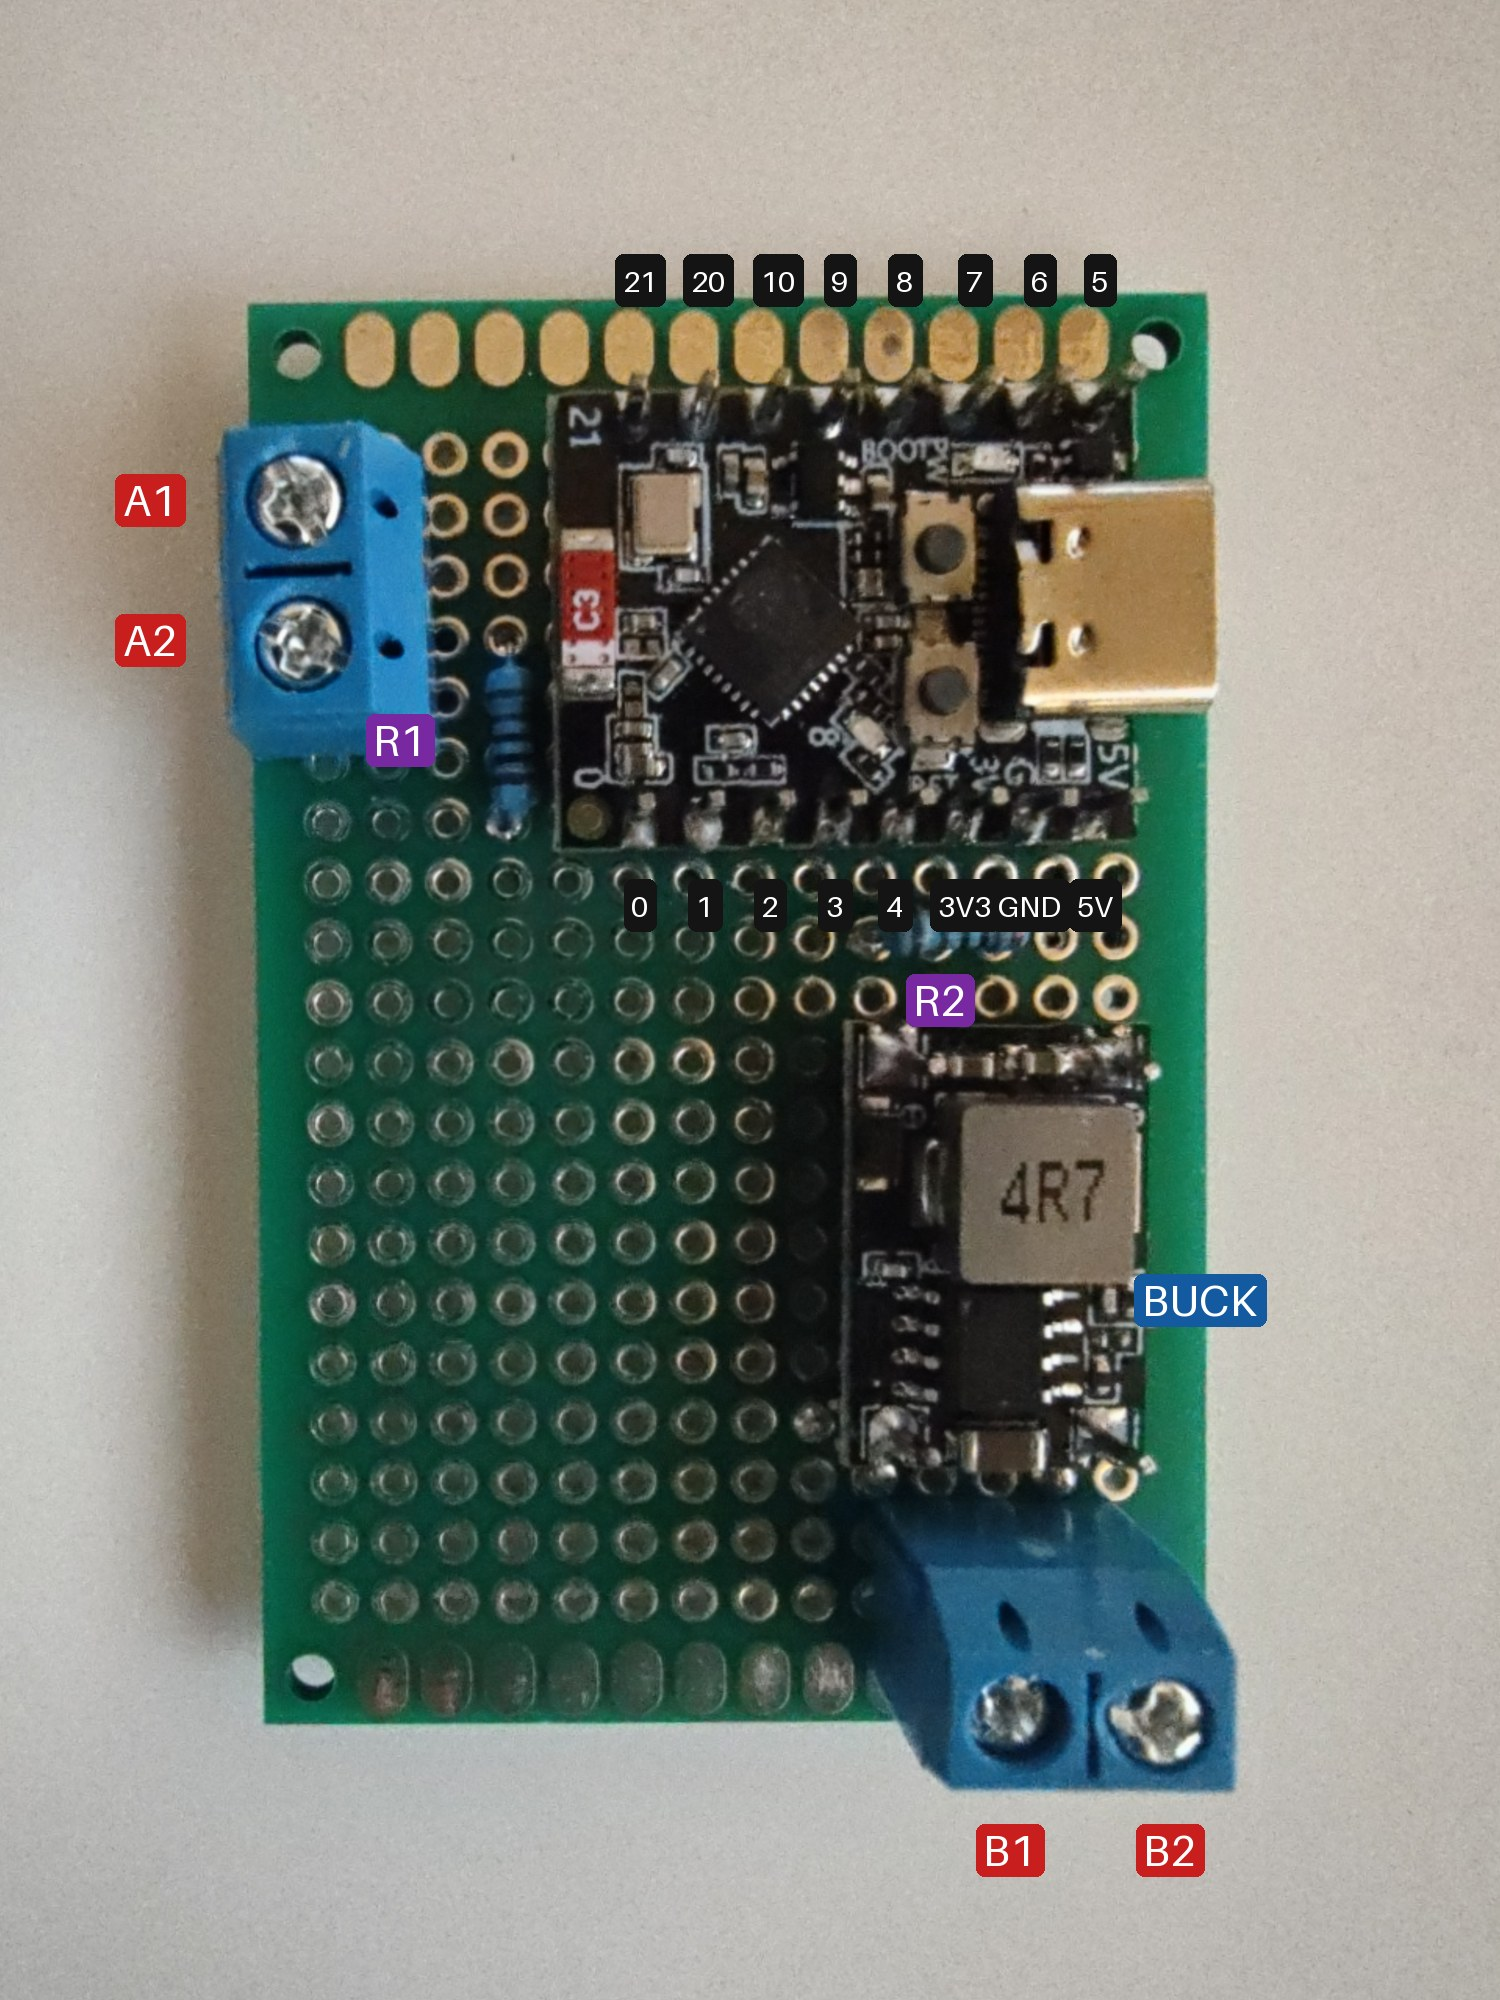
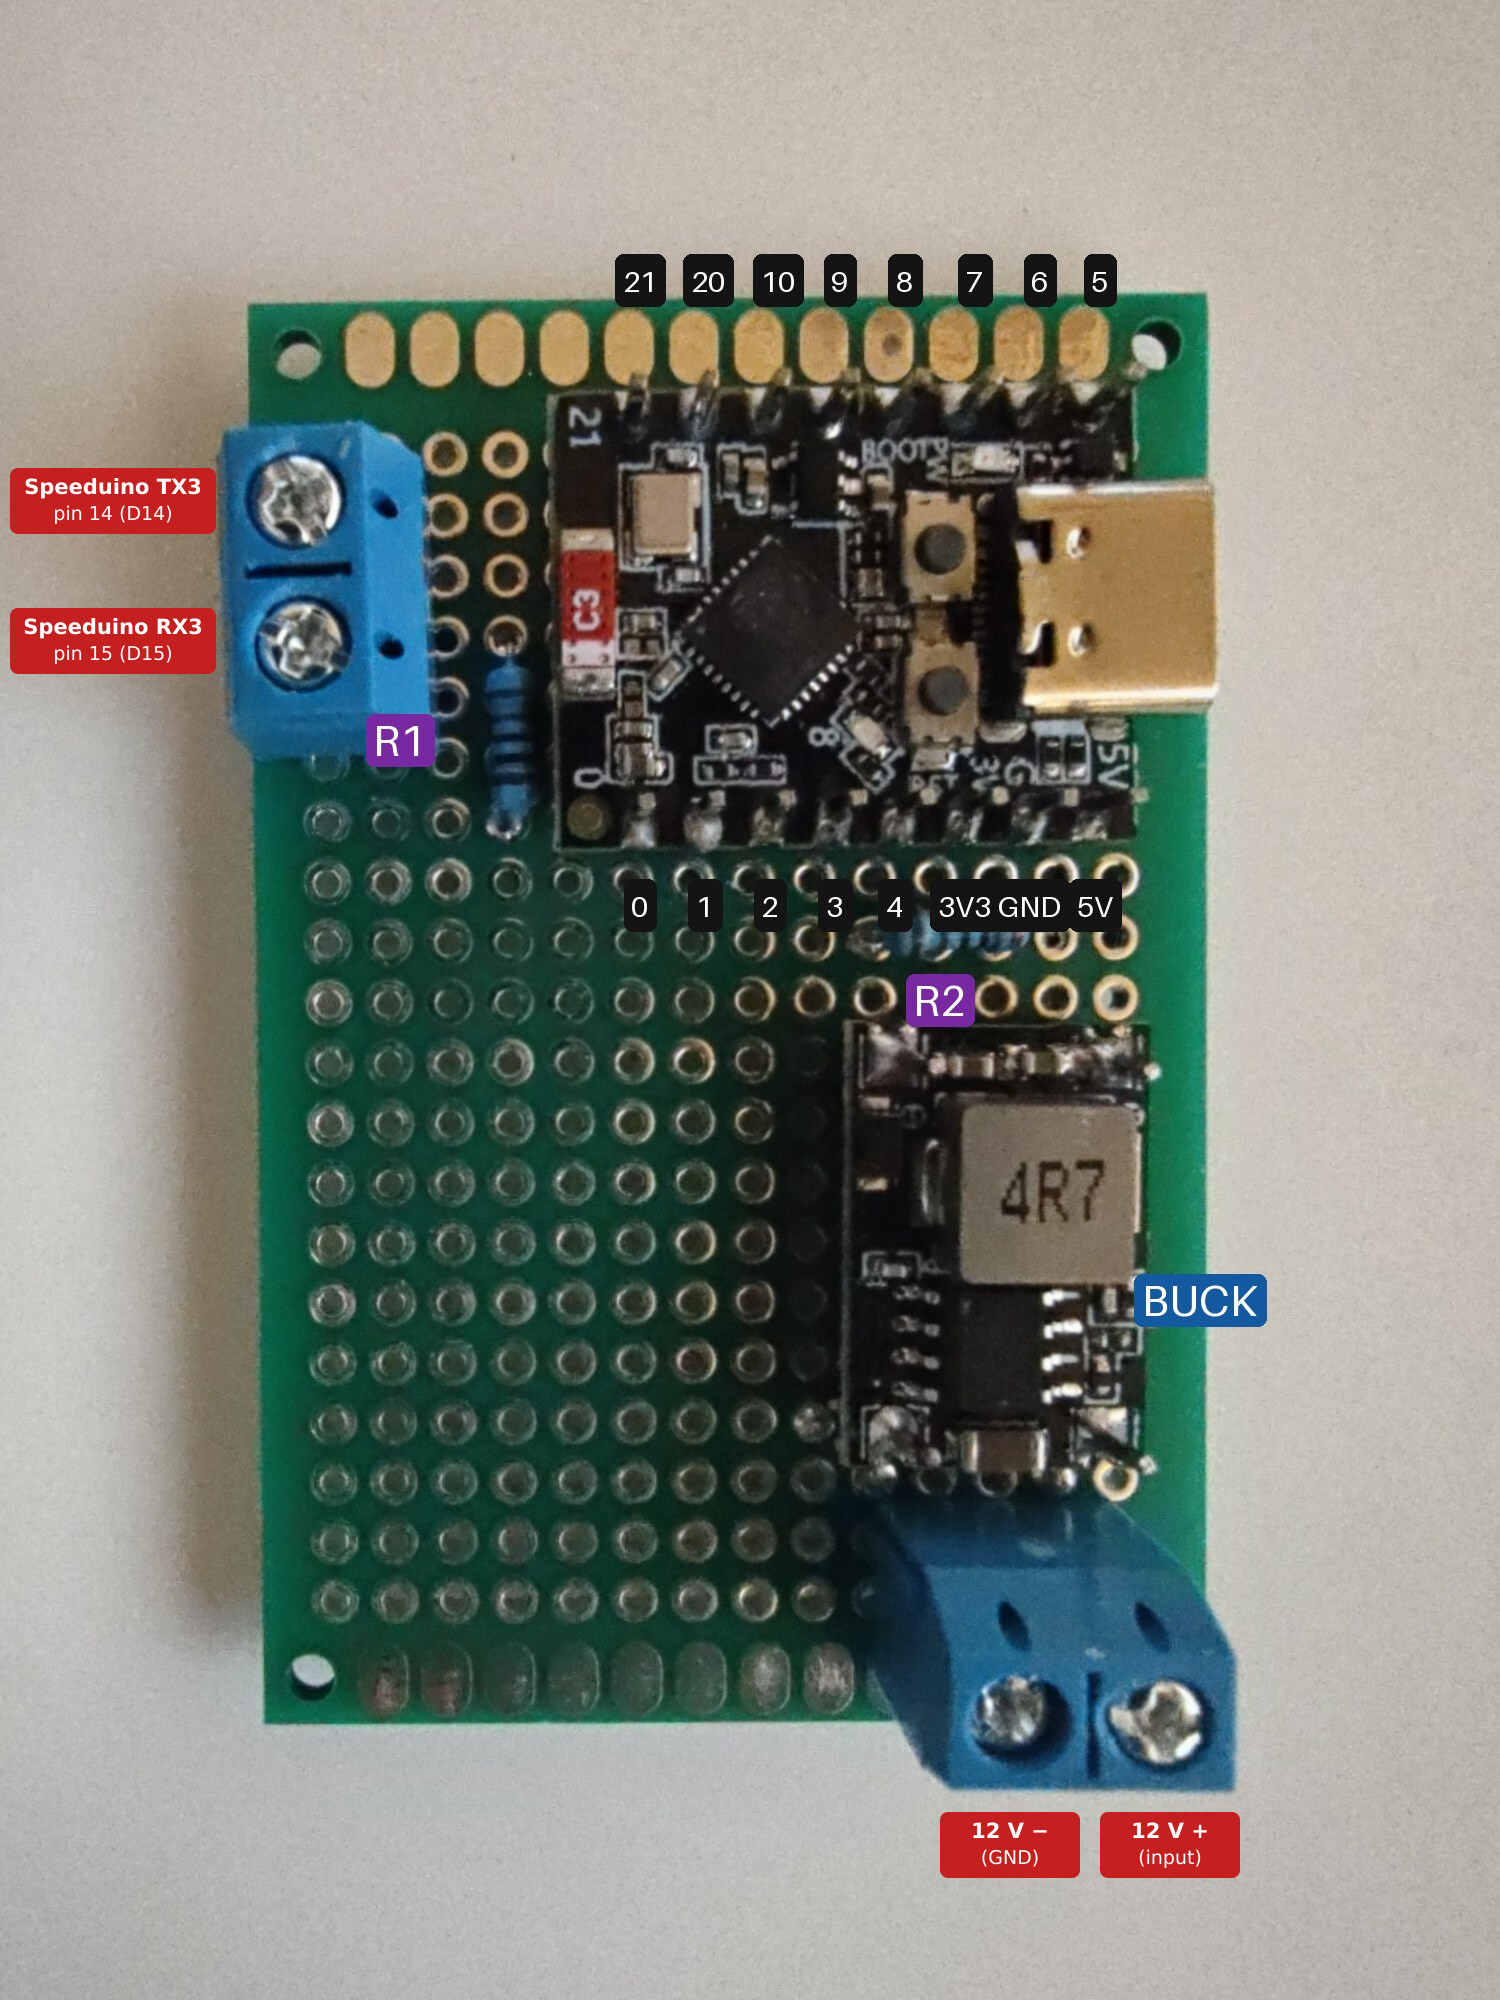
Bridge board photo: label the terminals by function, not A1/A2/B1/B2

Changed region(s): [[0.0, 0.217, 0.1533, 0.341], [0.6133, 0.899, 0.828, 0.961]]

diff --git a/PROJECT_NOTES.md b/PROJECT_NOTES.md
@@ -107,7 +107,7 @@ Dash node needs its own 5 V feed. Do not power the ESP32 from the Speeduino 5 V 
 ## Reference images (`docs/`)
 
 - `docs/wiring.svg`: wiring between the Speeduino v0.4.4d, the bridge board (terminals A1/A2, B1/B2, R1 1k, R2 2k, C3, buck) and the 12 V feed.
-- `docs/bridge_board_labelled.jpg`: photo of the built bridge board with A1/A2, B1/B2, R1/R2 and the C3 pins labelled.
+- `docs/bridge_board_labelled.jpg`: photo of the built bridge board with the terminals labelled by function (Speeduino TX3 pin 14, Speeduino RX3 pin 15, 12 V -, 12 V +; these were A1, A2, B1, B2 before 2026-11-16), R1/R2 and the C3 pins.
 - `docs/speeduino_solder_points.png`: photo of the Speeduino shield marking where to solder D14 (TX3), D15 (RX3) and GND (J6),
   plus the D21 continuity-check pads. Positions are derived from the board layout; confirm with the D21 beep test before soldering.
 
